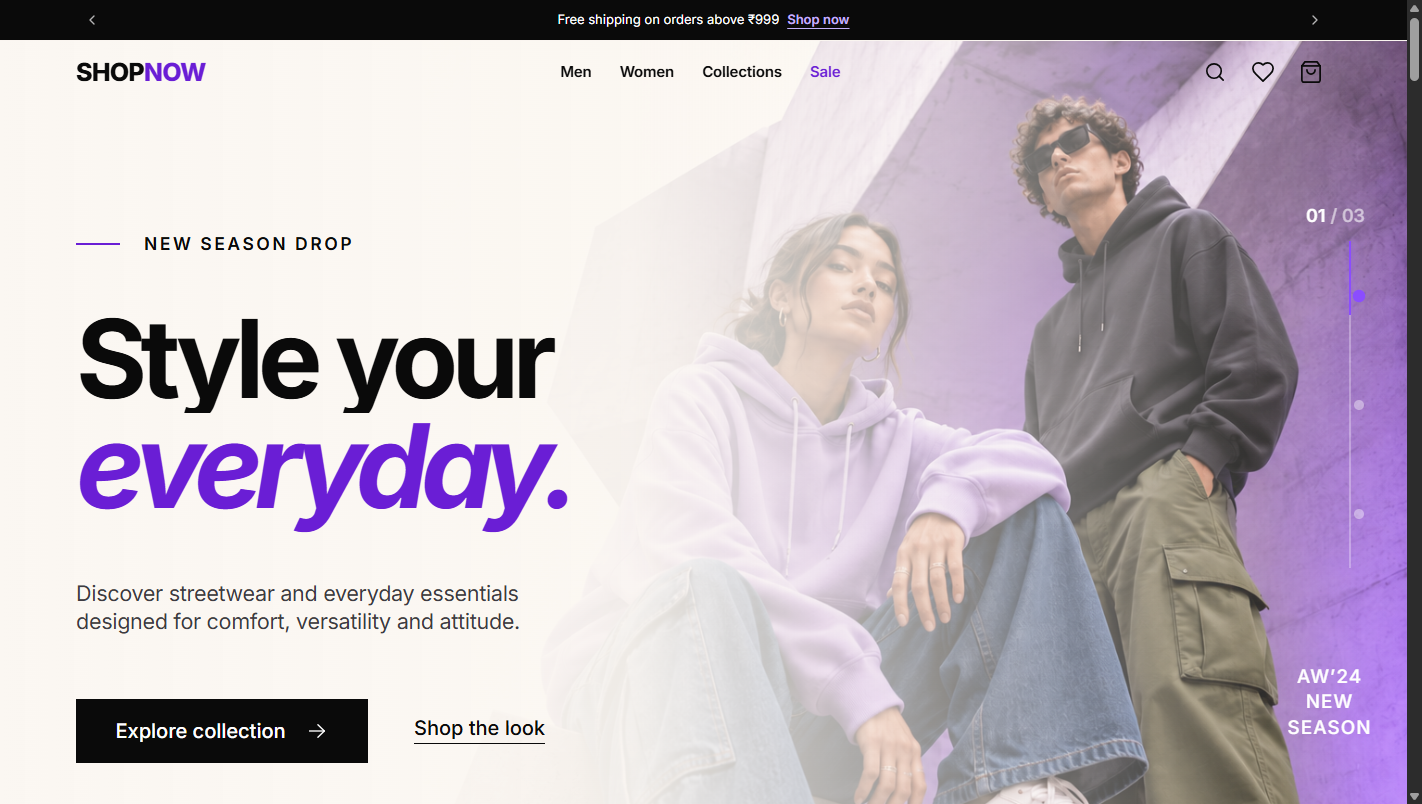
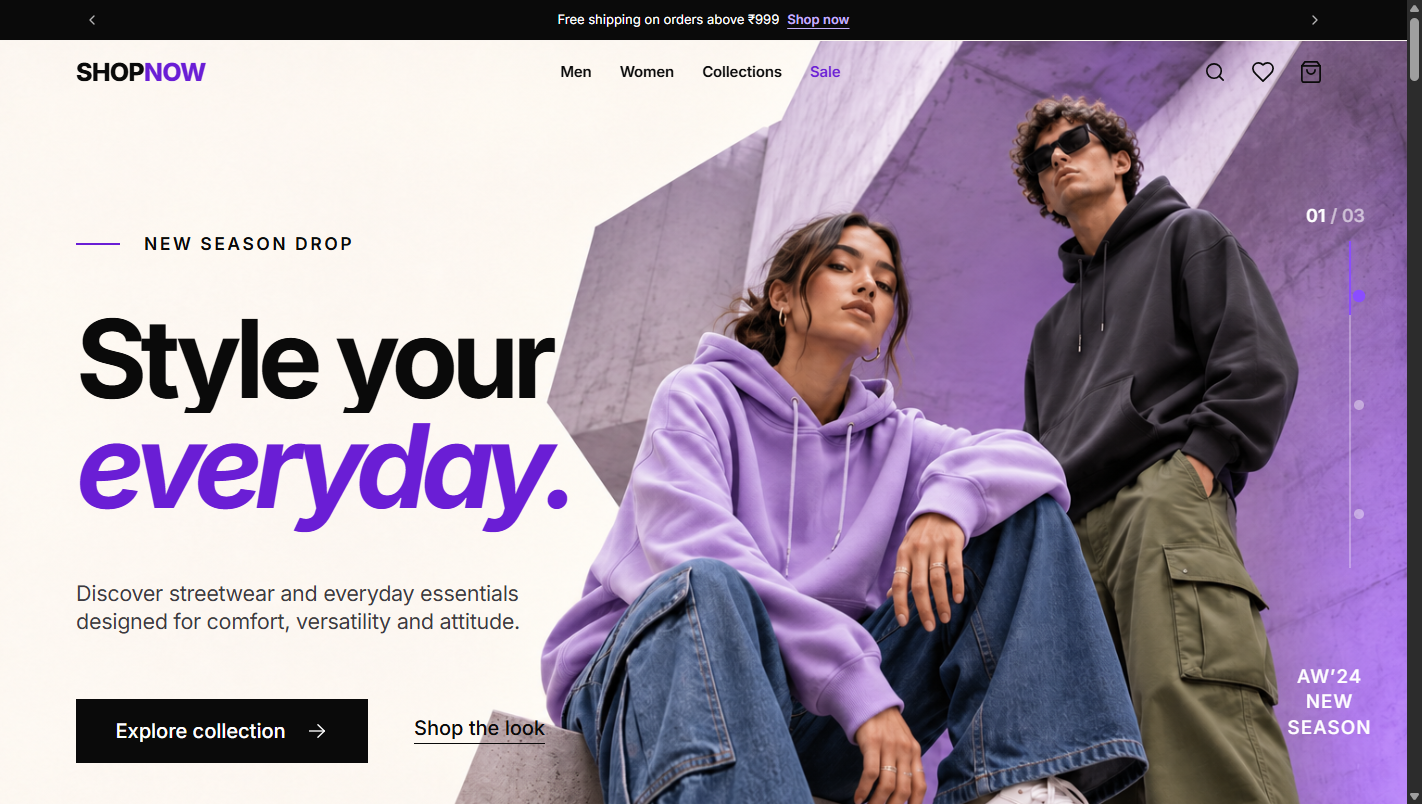
feat(hero): generate cohesive campaign photography for slides 02 and 03 and remove gradient overlay

diff --git a/src/components/sections/Hero.tsx b/src/components/sections/Hero.tsx
@@ -29,8 +29,8 @@ const HERO_SLIDES: HeroSlide[] = [
   {
     id: '02',
     num: '02',
-    photo: '/figma/featured/drop-03.jpg',
-    alt: 'Model in cropped lavender jacket and wide-leg trousers by concrete monolith',
+    photo: '/figma/hero/hero-slide-02.png',
+    alt: 'Two models in modern lilac jacket and oversized lavender sweatshirt against brutalist purple concrete architecture',
     label: 'SS’26\nDROP\n02',
     eyebrow: 'Summer capsule',
     collection: 'essential',
@@ -38,8 +38,8 @@ const HERO_SLIDES: HeroSlide[] = [
   {
     id: '03',
     num: '03',
-    photo: '/figma/featured/drop-05.jpg',
-    alt: 'Model in reflective black track jacket and utility cargo joggers at night',
+    photo: '/figma/hero/hero-slide-03.png',
+    alt: 'Models in technical streetwear and violet zip overshirt against purple monolithic architecture',
     label: 'NIGHT\nLAB\n26',
     eyebrow: 'After hours',
     collection: 'active',
@@ -90,11 +90,6 @@ export function Hero() {
         />
       </AnimatePresence>
 
-      {/* Editorial text backdrop gradient: guarantees 100% readability of headline & copy on all slides */}
-      <div
-        className="pointer-events-none absolute inset-0 z-[5] hidden lg:block bg-gradient-to-r from-[#FBF7F2] via-[#FBF7F2]/95 via-45% to-transparent"
-        aria-hidden="true"
-      />
 
       {/* Campaign indicator (Figma 104:275): count, 327px track, purple progress */}
       <div
